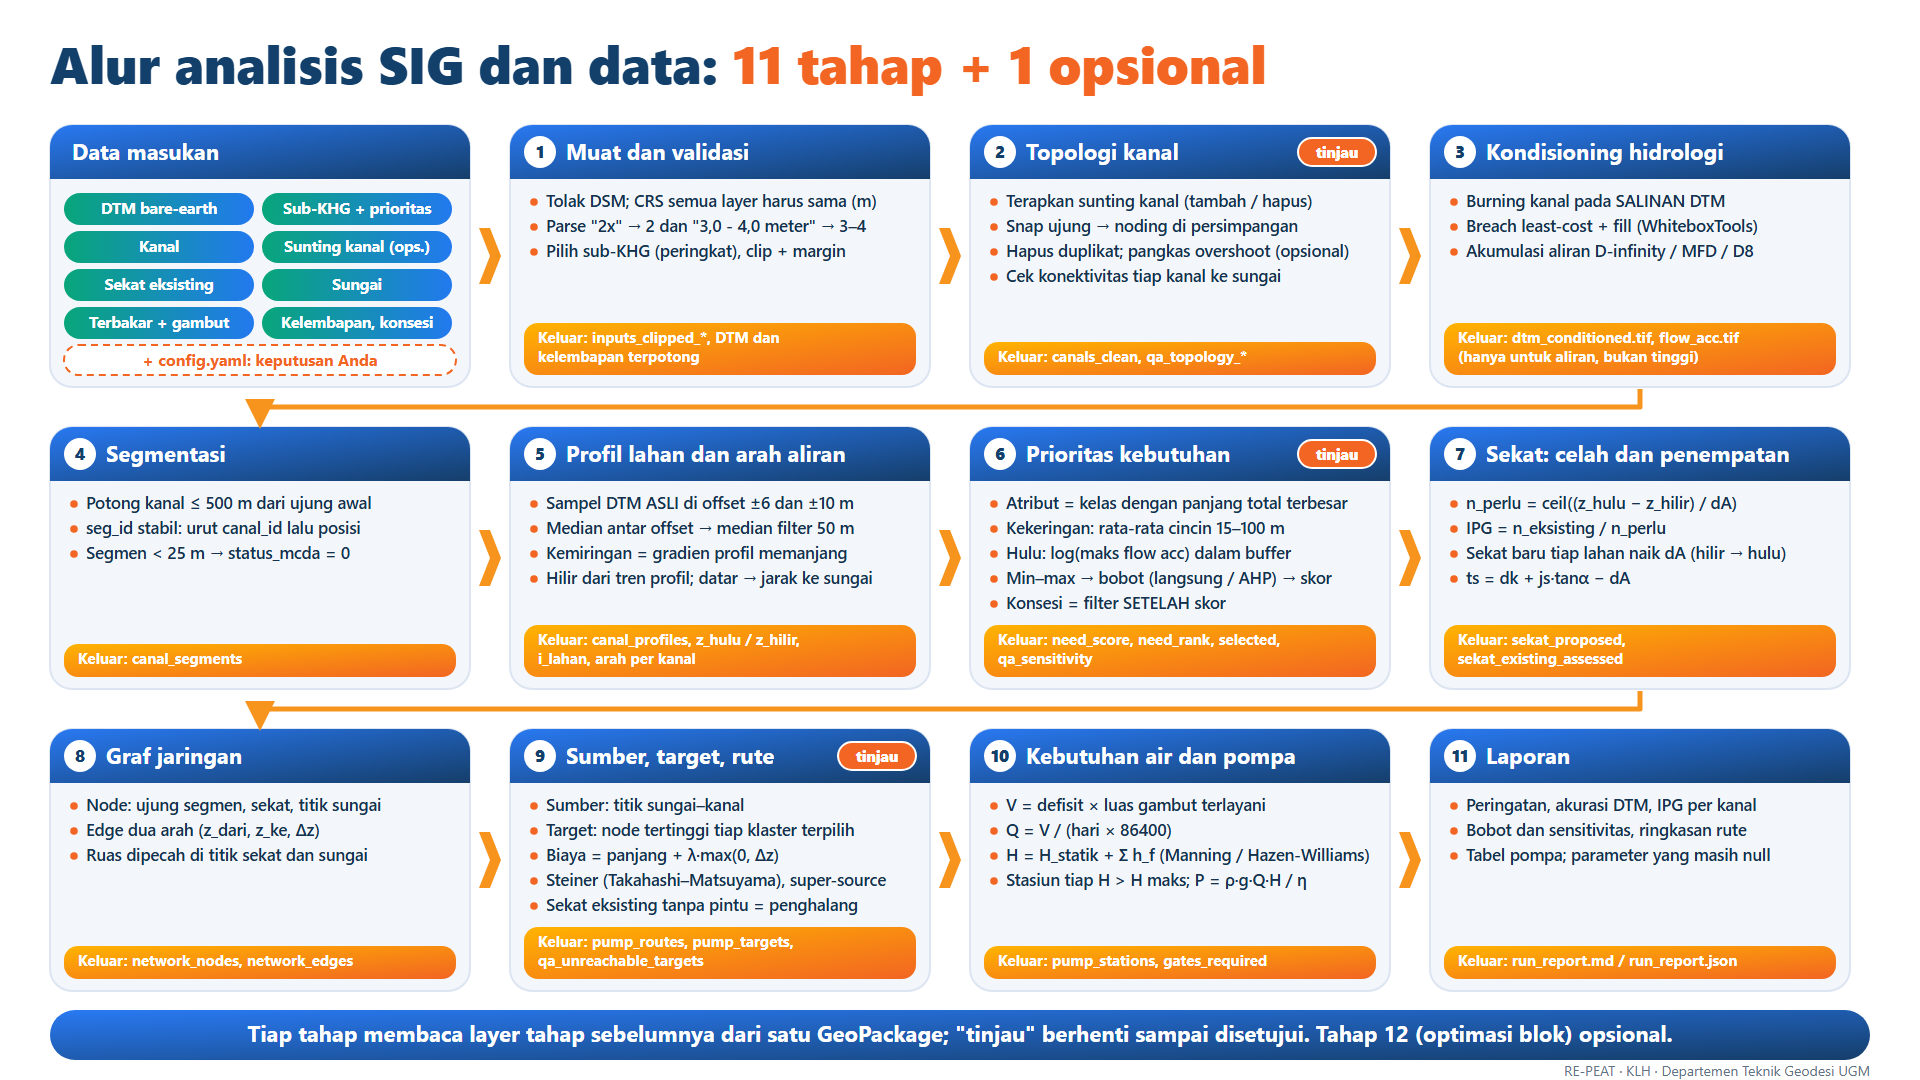
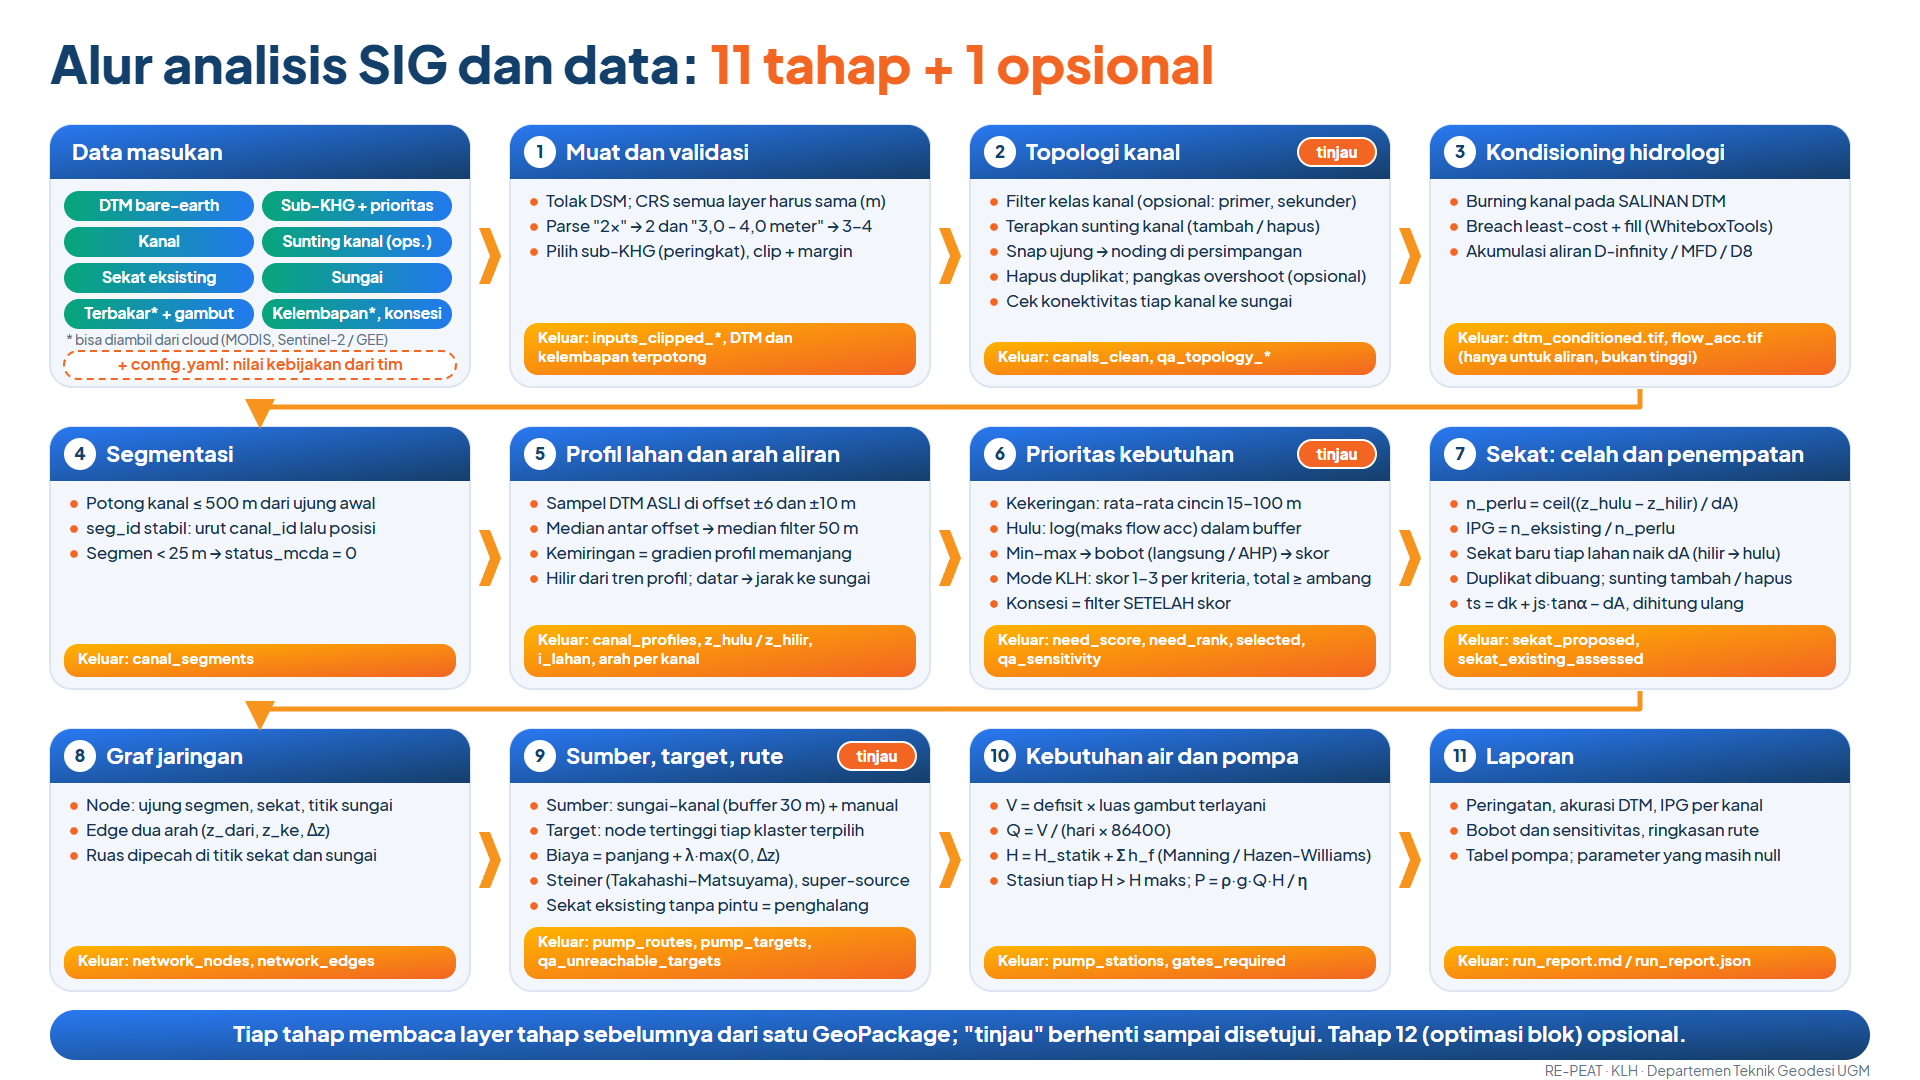
new figures

diff --git a/scripts/make_algorithm_slides.py b/scripts/make_algorithm_slides.py
@@ -101,7 +101,7 @@ def slide1():
         None,
         (1, "Muat dan validasi", False, ["Tolak DSM; CRS semua layer harus sama (m)", "Parse \"2x\" → 2 dan \"3,0 - 4,0 meter\" → 3–4", "Pilih sub-KHG (peringkat), clip + margin"],
          ["inputs_clipped_*, DTM dan", "kelembapan terpotong"]),
-        (2, "Topologi kanal", True, ["Terapkan sunting kanal (tambah / hapus)", "Snap ujung → noding di persimpangan", "Hapus duplikat; pangkas overshoot (opsional)", "Cek konektivitas tiap kanal ke sungai"],
+        (2, "Topologi kanal", True, ["Filter kelas kanal (opsional: primer, sekunder)", "Terapkan sunting kanal (tambah / hapus)", "Snap ujung → noding di persimpangan", "Hapus duplikat; pangkas overshoot (opsional)", "Cek konektivitas tiap kanal ke sungai"],
          ["canals_clean, qa_topology_*"]),
         (3, "Kondisioning hidrologi", False, ["Burning kanal pada SALINAN DTM", "Breach least-cost + fill (WhiteboxTools)", "Akumulasi aliran D-infinity / MFD / D8"],
          ["dtm_conditioned.tif, flow_acc.tif", "(hanya untuk aliran, bukan tinggi)"]),
@@ -109,13 +109,13 @@ def slide1():
          ["canal_segments"]),
         (5, "Profil lahan dan arah aliran", False, ["Sampel DTM ASLI di offset ±6 dan ±10 m", "Median antar offset → median filter 50 m", "Kemiringan = gradien profil memanjang", "Hilir dari tren profil; datar → jarak ke sungai"],
          ["canal_profiles, z_hulu / z_hilir,", "i_lahan, arah per kanal"]),
-        (6, "Prioritas kebutuhan", True, ["Atribut = kelas dengan panjang total terbesar", "Kekeringan: rata-rata cincin 15–100 m", "Hulu: log(maks flow acc) dalam buffer", "Min–max → bobot (langsung / AHP) → skor", "Konsesi = filter SETELAH skor"],
+        (6, "Prioritas kebutuhan", True, ["Kekeringan: rata-rata cincin 15–100 m", "Hulu: log(maks flow acc) dalam buffer", "Min–max → bobot (langsung / AHP) → skor", "Mode KLH: skor 1–3 per kriteria, total ≥ ambang", "Konsesi = filter SETELAH skor"],
          ["need_score, need_rank, selected,", "qa_sensitivity"]),
-        (7, "Sekat: celah dan penempatan", False, ["n_perlu = ceil((z_hulu − z_hilir) / dA)", "IPG = n_eksisting / n_perlu", "Sekat baru tiap lahan naik dA (hilir → hulu)", "ts = dk + js·tanα − dA"],
+        (7, "Sekat: celah dan penempatan", False, ["n_perlu = ceil((z_hulu − z_hilir) / dA)", "IPG = n_eksisting / n_perlu", "Sekat baru tiap lahan naik dA (hilir → hulu)", "Duplikat dibuang; sunting tambah / hapus", "ts = dk + js·tanα − dA, dihitung ulang"],
          ["sekat_proposed,", "sekat_existing_assessed"]),
         (8, "Graf jaringan", False, ["Node: ujung segmen, sekat, titik sungai", "Edge dua arah (z_dari, z_ke, Δz)", "Ruas dipecah di titik sekat dan sungai"],
          ["network_nodes, network_edges"]),
-        (9, "Sumber, target, rute", True, ["Sumber: titik sungai–kanal", "Target: node tertinggi tiap klaster terpilih", "Biaya = panjang + λ·max(0, Δz)", "Steiner (Takahashi–Matsuyama), super-source", "Sekat eksisting tanpa pintu = penghalang"],
+        (9, "Sumber, target, rute", True, ["Sumber: sungai–kanal (buffer 30 m) + manual", "Target: node tertinggi tiap klaster terpilih", "Biaya = panjang + λ·max(0, Δz)", "Steiner (Takahashi–Matsuyama), super-source", "Sekat eksisting tanpa pintu = penghalang"],
          ["pump_routes, pump_targets,", "qa_unreachable_targets"]),
         (10, "Kebutuhan air dan pompa", False, ["V = defisit × luas gambut terlayani", "Q = V / (hari × 86400)", "H = H_statik + Σ h_f (Manning / Hazen-Williams)", "Stasiun tiap H > H maks; P = ρ·g·Q·H / η"],
          ["pump_stations, gates_required"]),
@@ -125,14 +125,15 @@ def slide1():
     # slot 0: input data (green-blue chips)
     x, y = xs[0], ys[0]
     g.append(card(x, y, bw, bh, "Data masukan", HH))
-    ins = [("DTM bare-earth", "Sub-KHG + prioritas"), ("Kanal", "Sunting kanal (ops.)"), ("Sekat eksisting", "Sungai"), ("Terbakar + gambut", "Kelembapan, konsesi")]
+    ins = [("DTM bare-earth", "Sub-KHG + prioritas"), ("Kanal", "Sunting kanal (ops.)"), ("Sekat eksisting", "Sungai"), ("Terbakar* + gambut", "Kelembapan*, konsesi")]
     for r, (a, b) in enumerate(ins):
         for c, lab in enumerate((a, b)):
-            cx_, cy_ = x + 14 + c * 198, y + HH + 14 + r * 38
-            g.append(chip(cx_, cy_, 190, 32, "g"))
-            g.append(t(cx_ + 95, cy_ + 21, lab, 15.5, 700, "#fff", "middle"))
-    g.append(rect(x + 14, y + bh - 42, bw - 28, 30, "#ffffff", ORANGE, 2, 15, "7 5"))
-    g.append(t(x + bw / 2, y + bh - 21, "+ config.yaml: keputusan Anda", 16, 700, ORANGE, "middle"))
+            cx_, cy_ = x + 14 + c * 198, y + HH + 12 + r * 36
+            g.append(chip(cx_, cy_, 190, 30, "g"))
+            g.append(t(cx_ + 95, cy_ + 20, lab, 15.5, 700, "#fff", "middle"))
+    g.append(t(x + 16, y + HH + 12 + 4 * 36 + 10, "* bisa diambil dari cloud (MODIS, Sentinel-2 / GEE)", 13.5, 500, MUTED))
+    g.append(rect(x + 14, y + bh - 36, bw - 28, 28, "#ffffff", ORANGE, 2, 14, "7 5"))
+    g.append(t(x + bw / 2, y + bh - 17, "+ config.yaml: nilai kebijakan dari tim", 16, 700, ORANGE, "middle"))
     for idx, st in enumerate(stages):
         if st is None:
             continue
@@ -200,8 +201,8 @@ def slide2():
         g.append(t(cx_ + 32, yy + 37, b, 13.5, 500, "#fff", opacity=0.9))
     g.append(poly([(cx_ + 290, y0c + 22), (cx_ + 320, y0c + 22), (cx_ + 320, y0c + 3 * 52 + 22), (cx_ + 290, y0c + 3 * 52 + 22)], CHEV, 3))
     g.append(chevron(cx_ + 337, y0c + 1.5 * 52 + 22, 18, 40))
-    steps = [("Normalisasi min–max", "0–1, arah \"lebih tinggi = lebih buruk\""), ("Bobot", "langsung, atau AHP (CR ≤ 0,10)"), ("Skor = Σ bobot × nilai", "segmen status_mcda = 1 saja"),
-             ("Peringkat → pilih top 20%", "hanya segmen yang layak")]
+    steps = [("Normalisasi min–max", "0–1, arah \"lebih tinggi = lebih buruk\""), ("Bobot", "langsung / AHP (CR ≤ 0,10) / KLH"), ("Skor = Σ bobot × nilai", "segmen status_mcda = 1 saja"),
+             ("Peringkat → pilih top 20%", "mode KLH: skor ≥ ambang (dari 12)")]
     sx = cx_ + 362
     for i, (a, b) in enumerate(steps):
         yy = y0c - 4 + i * 60
@@ -215,7 +216,7 @@ def slide2():
     g.append(t(cx_ + 32, cy_ + 360, "tidak pernah masuk ke dalam skor kebutuhan.", 15.5, 500))
     g.append(rect(cx_ + 18, cy_ + 382, 604, 56, "#e6f0fa", BLUE, 2, 14))
     g.append(t(cx_ + 32, cy_ + 406, "Sensitivitas: bobot diubah ±10% dan ±20% satu per satu;", 15.5, 500))
-    g.append(t(cx_ + 32, cy_ + 426, "laporkan korelasi Spearman dan bagian top yang bertahan.", 15.5, 500))
+    g.append(t(cx_ + 32, cy_ + 426, "dilaporkan korelasi Spearman dan porsi top yang bertahan.", 15.5, 500))
     g.append(t(cx_ + 22, cy_ + 464, "Hasil: need_score, need_rank, selected, qa_sensitivity", 15.5, 800, NAVY))
     g.append(t(cx_ + 22, cy_ + 484, "Segmen di luar sub-KHG terpilih tidak diberi skor.", 15, 500, MUTED))
 
@@ -269,8 +270,8 @@ def slide2():
         g.append(t(x + 14, fy + 28, a, 16, 800, "#fff"))
         g.append(t(x + 14, fy + 58, b, 15, 700, "#fff", mono=True))
         g.append(t(x + 14, fy + 86, c, 13.5, 500, "#fff", opacity=0.92))
-    rules = ["Sekat usulan tidak ditaruh dalam min_spacing_m dari sekat eksisting.", "Tipe: leaky / reinforced bila lereng ≥ 5%, selain itu standar.",
-             "Sekat eksisting dicocokkan ke kanal dalam toleransi; yang gagal dilaporkan.", "Profil memakai DTM asli; DTM hasil burning tidak pernah dipakai di sini."]
+    rules = ["Sekat usulan tidak dalam min_spacing_m dari sekat eksisting; duplikat dibuang.", "Sunting manual (tambah / hapus), lalu jarak dan tinggi dihitung ulang.",
+             "Tipe: leaky / reinforced bila lereng ≥ 5%, selain itu standar.", "Profil memakai DTM asli; DTM hasil burning tidak pernah dipakai di sini."]
     for k, r in enumerate(rules):
         g.append(circle(bx + 30, fy + 134 + k * 26 - 5, 4, ORANGE))
         g.append(t(bx + 44, fy + 134 + k * 26, r, 16.5, 500))
@@ -322,8 +323,8 @@ def slide3():
             g.append(t(x + 30, y + 24, zl, 14, 500, MUTED))
         else:
             g.append(t(x, y + (40 if k in ("F", "G") else -28), zl, 14, 500, MUTED, "middle"))
-    g.append(circle(ax + 40, ay + 112, 11, BLUE) + t(ax + 60, ay + 118, "Sumber: titik sungai–kanal (perennial / ada muka air kemarau)", 16, 500))
-    g.append(circle(ax + 40, ay + 144, 11, ORANGE) + t(ax + 60, ay + 150, "Target: node TERTINGGI tiap klaster segmen terpilih (bukan centroid)", 16, 500))
+    g.append(circle(ax + 40, ay + 112, 11, BLUE) + t(ax + 60, ay + 118, "Sumber: titik sungai–kanal (buffer 30 m), atau ditambah manual", 16, 500))
+    g.append(circle(ax + 40, ay + 144, 11, ORANGE) + t(ax + 60, ay + 150, "Target: node TERTINGGI tiap klaster terpilih (bisa diganti manual)", 16, 500))
     g.append(line(ax + 28, ay + 176, ax + 52, ay + 176, GREEN, 7) + t(ax + 60, ay + 182, "Pohon Steiner: ruas bersama dipakai ulang oleh beberapa target", 16, 500))
     g.append(line(ax + 28, ay + 208, ax + 52, ay + 208, GREY, 3) + t(ax + 60, ay + 214, "Jalur alternatif lebih mahal / terblokir", 16, 500))
     # algorithm box
@@ -352,7 +353,7 @@ def slide3():
         if i < 4:
             g.append(chevron(x + cw + 7, by + 97, 10, 26))
     g.append(t(bx + 20, by + 156, "Per sub-KHG: luas = gambut ∩ buffer segmen terlayani ∩ sub-KHG; Q dijumlah antar sub-KHG.", 14.5, 500, MUTED))
-    g.append(t(bx + 20, by + 184, "Stasiun dipasang di sumber, lalu setiap kali head kumulatif akan melebihi H maks (disambut ke sekat terdekat).", 14.5, 500, MUTED))
+    g.append(t(bx + 20, by + 184, "Stasiun dipasang di sumber, lalu setiap kali head kumulatif akan melebihi H maks (digeser ke sekat terdekat).", 14.5, 500, MUTED))
 
     cx0, cy0 = bx + 90, by + 480
     g.append(line(cx0, cy0 + 16, bx + bw_ - 30, cy0 + 16, MUTED, 2, arrow=True))
@@ -371,7 +372,7 @@ def slide3():
         g.append(line(Xr(f0), Yr(z0), Xr(f1), Yr(z0), ORANGE, 1.5, "5 4"))
         g.append(line(Xr(f1) - 6, Yr(z0), Xr(f1) - 6, Yr(z1), ORANGE, 2.5, arrow=True))
         g.append(t(Xr(f1) - 16, (Yr(z0) + Yr(z1)) / 2 + 5, f"H{k + 1}", 15, 800, ORANGE, "end"))
-    for f, z, nm in ((0.0, 2.0, "PS1 (di sumber)"), (0.42, 2.58, "PS2 (disambut ke sekat)")):
+    for f, z, nm in ((0.0, 2.0, "PS1 (di sumber)"), (0.42, 2.58, "PS2 (di sekat terdekat)")):
         g.append(rect(Xr(f) - 12, Yr(z) - 12, 24, 24, NAVY, "#fff", 2, 5))
         g.append(t(Xr(f), Yr(z) + 5, "P", 14, 800, "#fff", "middle"))
         g.append(t(Xr(f) + (-4 if f == 0 else 22), Yr(z) + (40 if f == 0 else 34), nm, 14, 800, NAVY, "start"))
